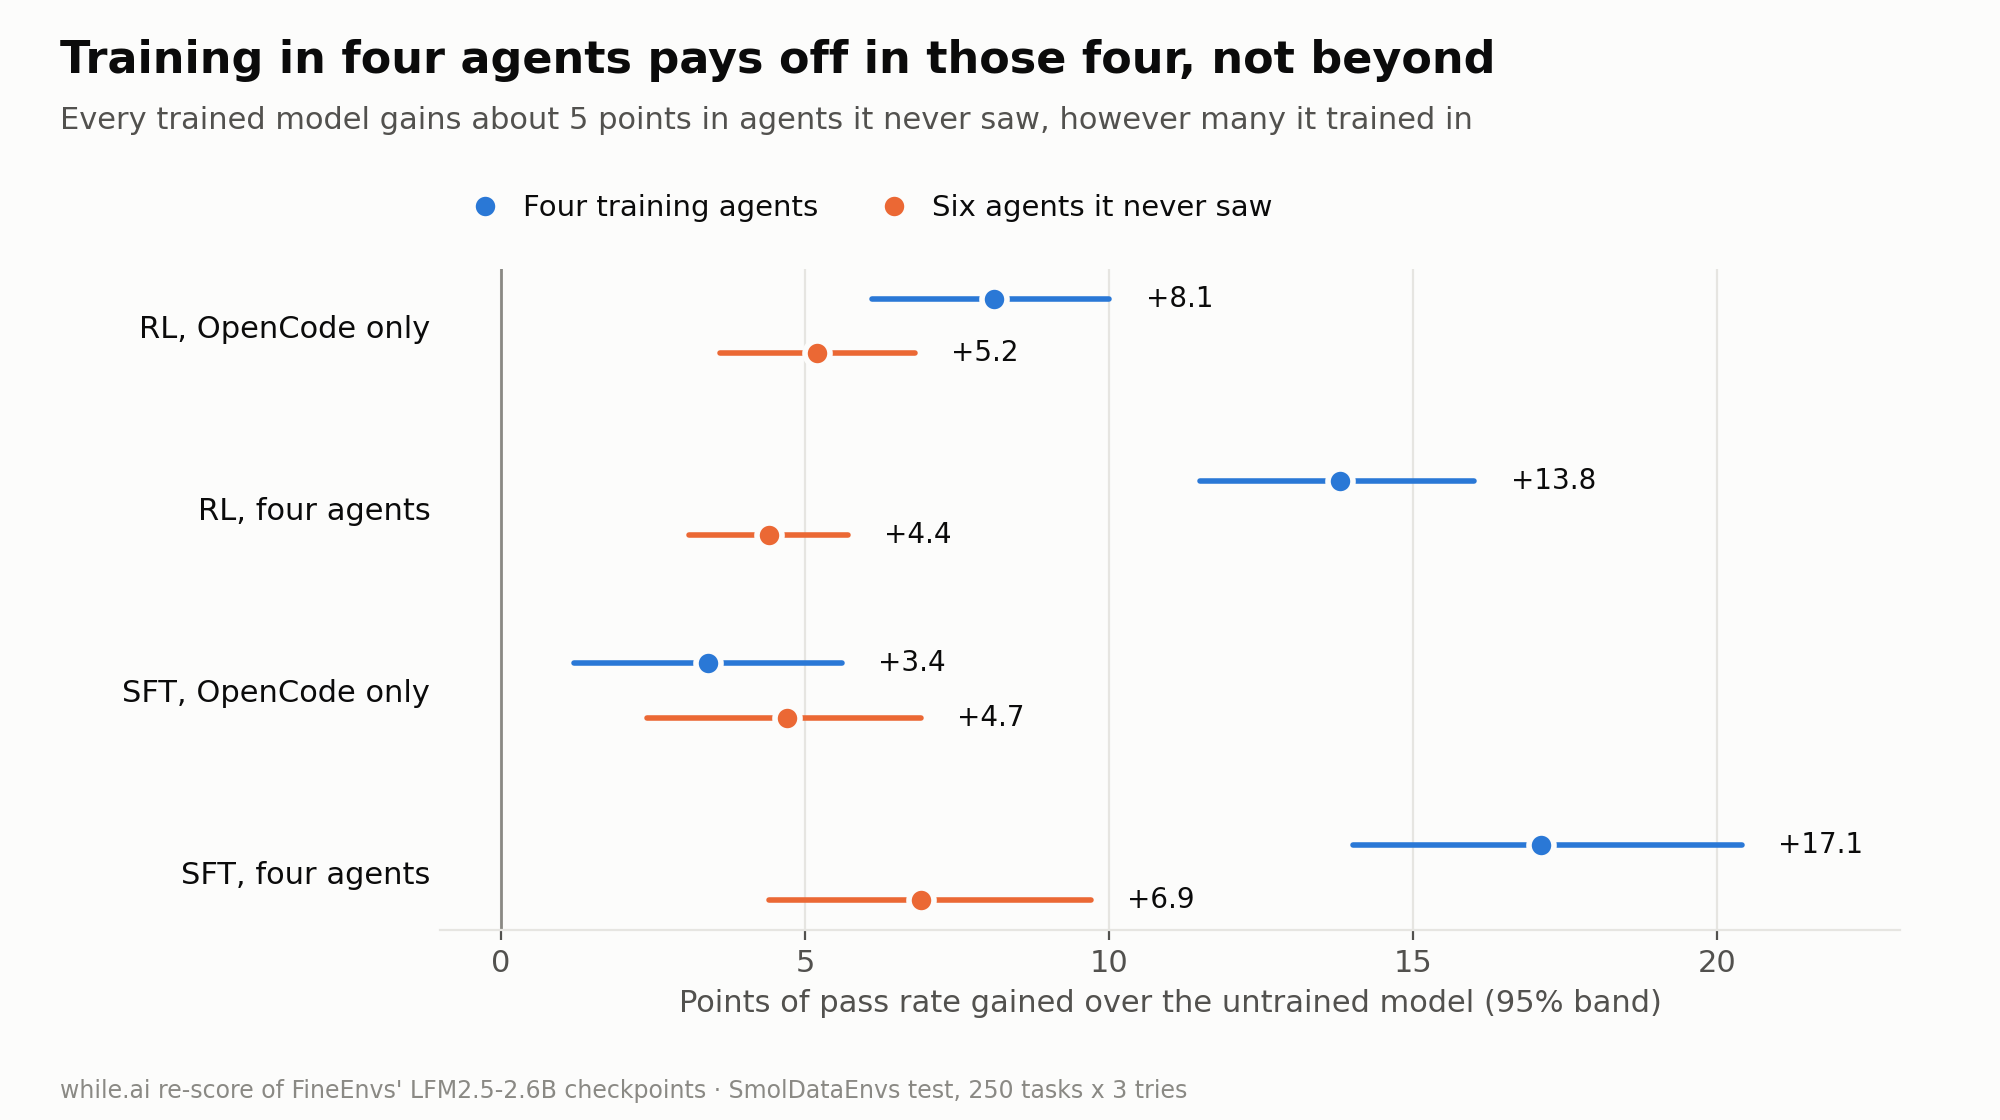
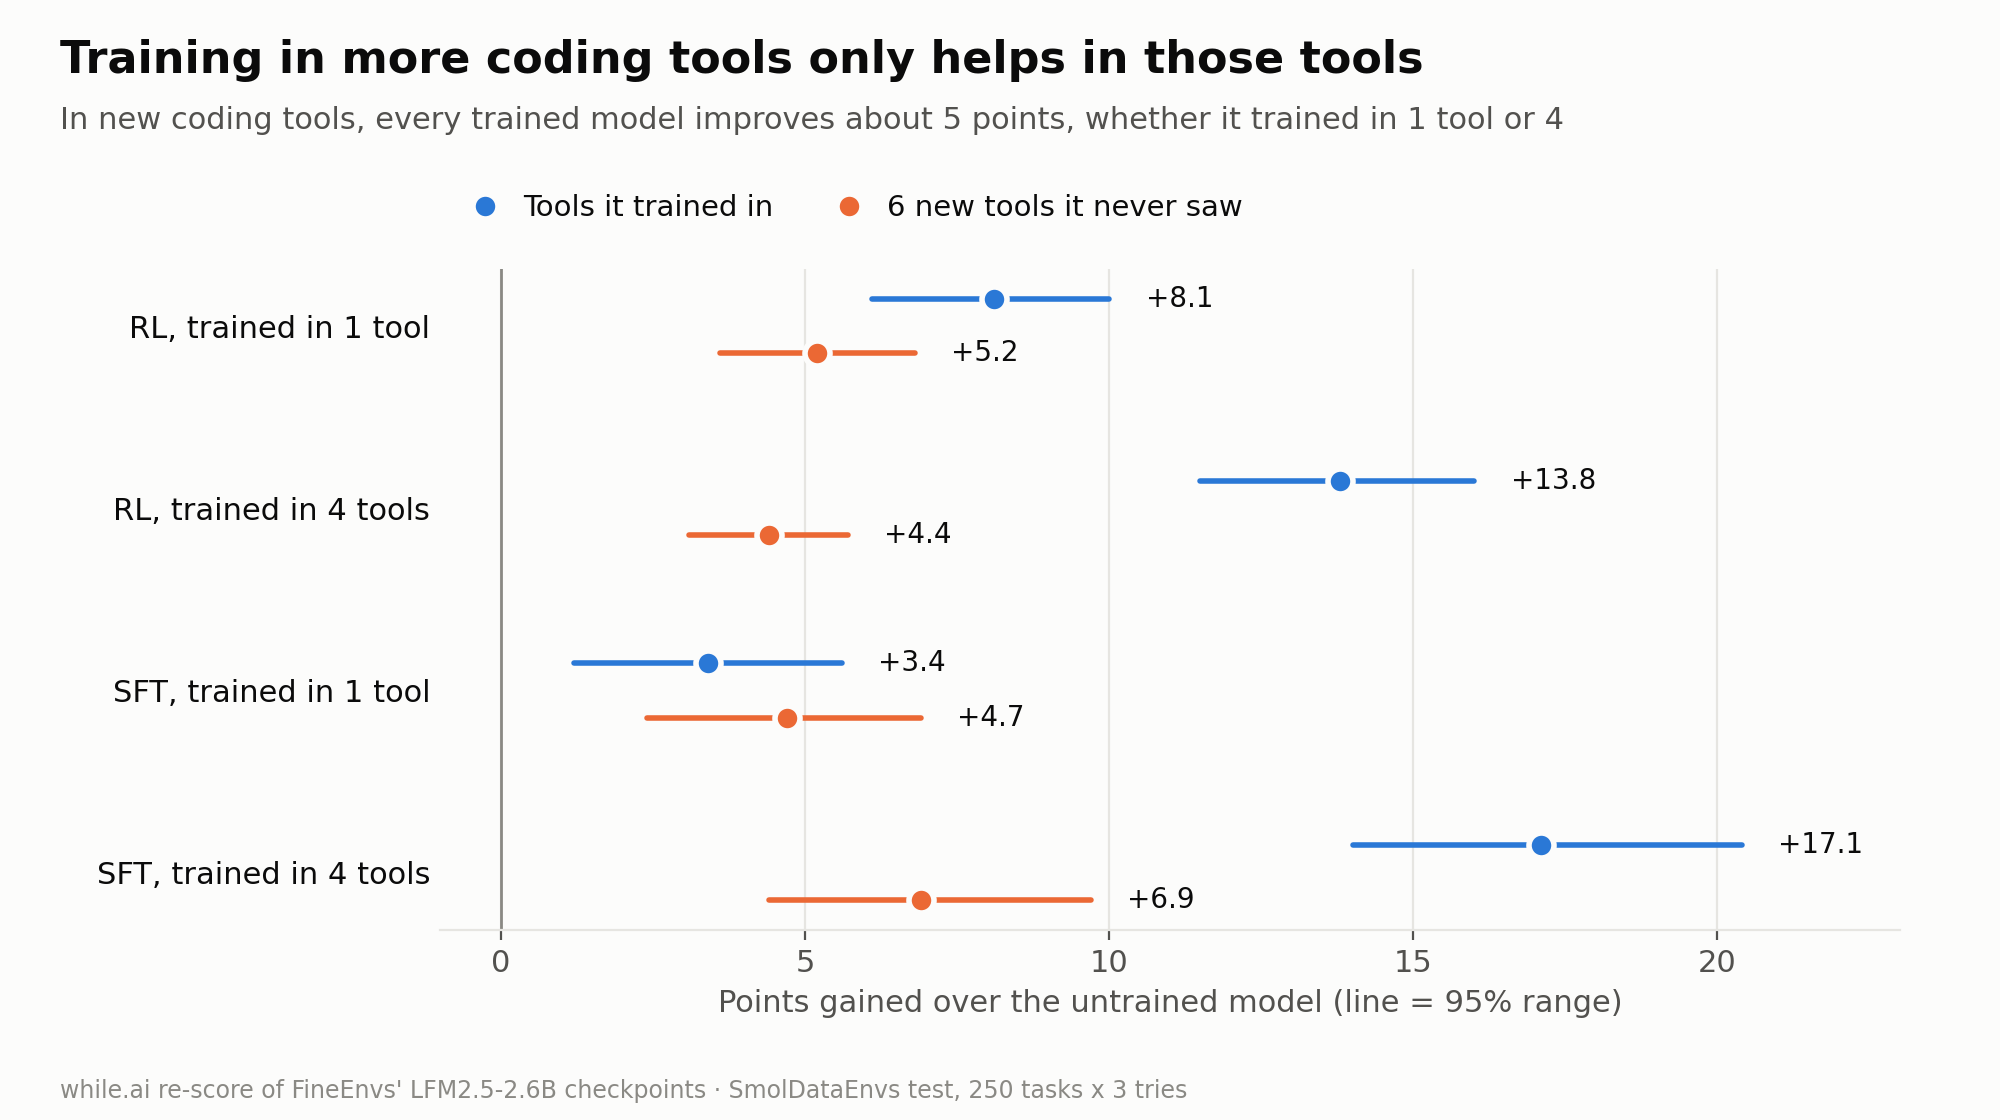
recipe(multi-harness-transfer): plain-word chart titles

diff --git a/recipes/04-train/multi-harness-transfer/make_figures.py b/recipes/04-train/multi-harness-transfer/make_figures.py
@@ -42,25 +42,25 @@ def dot(ax, y, v, lo, hi, color, label=None):
 
 # 1. Gain over the untrained model, in the agents each model trained in vs agents it never saw.
 gains = [  # model, trained four (v, lo, hi), unseen six (v, lo, hi)
-    ("RL, OpenCode only", (8.1, 6.1, 10.0), (5.2, 3.6, 6.8)),
-    ("RL, four agents", (13.8, 11.5, 16.0), (4.4, 3.1, 5.7)),
-    ("SFT, OpenCode only", (3.4, 1.2, 5.6), (4.7, 2.4, 6.9)),
-    ("SFT, four agents", (17.1, 14.0, 20.4), (6.9, 4.4, 9.7)),
+    ("RL, trained in 1 tool", (8.1, 6.1, 10.0), (5.2, 3.6, 6.8)),
+    ("RL, trained in 4 tools", (13.8, 11.5, 16.0), (4.4, 3.1, 5.7)),
+    ("SFT, trained in 1 tool", (3.4, 1.2, 5.6), (4.7, 2.4, 6.9)),
+    ("SFT, trained in 4 tools", (17.1, 14.0, 20.4), (6.9, 4.4, 9.7)),
 ]
 fig, ax = plt.subplots(figsize=(10, 5.6))
 fig.subplots_adjust(left=0.22, right=0.95, top=0.76, bottom=0.17)
 for i, (name, tr, un) in enumerate(gains):
     y = len(gains) - 1 - i
-    dot(ax, y + 0.15, *tr, BLUE, "Four training agents" if i == 0 else None)
-    dot(ax, y - 0.15, *un, ORANGE, "Six agents it never saw" if i == 0 else None)
+    dot(ax, y + 0.15, *tr, BLUE, "Tools it trained in" if i == 0 else None)
+    dot(ax, y - 0.15, *un, ORANGE, "6 new tools it never saw" if i == 0 else None)
 ax.set_yticks(range(len(gains)), [g[0] for g in reversed(gains)], fontsize=11, color=INK)
 ax.axvline(0, color=MUTED, linewidth=1)
 ax.set_xlim(-1, 23)
-ax.set_xlabel("Points of pass rate gained over the untrained model (95% band)")
+ax.set_xlabel("Points gained over the untrained model (line = 95% range)")
 frame(ax)
 fig.legend(loc="upper left", bbox_to_anchor=(0.215, 0.85), ncol=2, frameon=False, fontsize=10.5, handletextpad=0.3, columnspacing=1.6)
-header(fig, "Training in four agents pays off in those four, not beyond",
-       "Every trained model gains about 5 points in agents it never saw, however many it trained in")
+header(fig, "Training in more coding tools only helps in those tools",
+       "In new coding tools, every trained model improves about 5 points, whether it trained in 1 tool or 4")
 fig.savefig(OUT / "1-gain-trained-vs-unseen.png", dpi=200)
 plt.close(fig)
 
@@ -71,7 +71,7 @@ rows = [  # label, v, lo, hi, group
     ("Qwen Code", 6.0, 2.8, 9.2, "u"), ("OpenHands SDK", 3.3, 0.0, 6.5, "u"),
     ("Gemini CLI", -0.1, -0.4, 0.0, "u"), ("Terminus 2", -0.9, -3.8, 2.0, "u"),
     ("Vibe", -3.7, -7.2, -0.5, "u"), ("Pi", -9.3, -12.9, -5.5, "u"),
-    ("All six never seen", -0.8, -2.0, 0.5, "p"),
+    ("All 6 new tools", -0.8, -2.0, 0.5, "p"),
 ]
 fig, ax = plt.subplots(figsize=(10, 7.2))
 fig.subplots_adjust(left=0.22, right=0.95, top=0.83, bottom=0.12)
@@ -95,19 +95,19 @@ for tick, (_, _, g) in zip(ax.get_yticklabels(), ys):
         tick.set_fontweight("bold")
 ax.axvline(0, color=MUTED, linewidth=1)
 ax.set_xlim(-16, 27)
-ax.set_xlabel("Four-agent model minus OpenCode-only model, points of pass rate (95% band)")
-ax.text(-15.5, tops["t"] + 0.75, "Agents both trained in", color=BLUE, fontsize=10.5, fontweight="bold")
-ax.text(-15.5, tops["u"] + 0.75, "Agents neither trained in", color=ORANGE, fontsize=10.5, fontweight="bold")
+ax.set_xlabel("Score difference in points (line = 95% range)")
+ax.text(-15.5, tops["t"] + 0.75, "Tools both models trained in", color=BLUE, fontsize=10.5, fontweight="bold")
+ax.text(-15.5, tops["u"] + 0.75, "New tools neither model saw", color=ORANGE, fontsize=10.5, fontweight="bold")
 ax.set_ylim(-0.7, tops["t"] + 1.3)
-ax.text(26.5, ys[0][0], "not proven:\nband crosses zero", ha="right", va="center", fontsize=9, color=INK2)
+ax.text(26.5, ys[0][0], "no real difference:\nrange crosses zero", ha="right", va="center", fontsize=9, color=INK2)
 frame(ax)
-header(fig, "In agents it never saw, the four-agent model is no better",
-       "RL checkpoints. Right of zero favors training in four agents, left favors OpenCode only")
+header(fig, "In new coding tools, training in 4 tools is no better than training in 1",
+       "Right of zero: the 4-tool model did better. Left: the 1-tool (OpenCode) model did better")
 fig.savefig(OUT / "2-four-agents-minus-opencode-per-agent.png", dpi=200)
 plt.close(fig)
 
 # 3. The agent moves the score more than the model.
-models = ["Base", "RL OpenCode", "RL four", "SFT OpenCode", "SFT four"]
+models = ["Base", "RL, 1 tool", "RL, 4 tools", "SFT, 1 tool", "SFT, 4 tools"]
 grid = {  # base, oc-rl, mh-rl, oc-sft, mh-sft (211 tasks shared by every cell)
     "Terminus 2": (60.3, 63.7, 62.8, 66.0, 60.7), "Mini-SWE-Agent": (52.9, 54.0, 58.9, 46.6, 41.5),
     "Pi": (42.4, 56.3, 46.1, 55.6, 51.2), "OpenHands SDK": (44.5, 50.6, 53.9, 45.5, 45.0),
@@ -133,8 +133,8 @@ ax.tick_params(length=0)
 ax.set_xticks([x - 0.5 for x in range(1, len(models))], minor=True)
 ax.set_yticks([y - 0.5 for y in range(1, len(names))], minor=True)
 ax.grid(which="minor", color=SURFACE, linewidth=2)
-header(fig, "The agent moves the score more than the model does",
-       "Pass rate (%) on the 211 tasks every cell shares. Agents explain 81% of the spread, models 5%")
+header(fig, "Which coding tool you use matters more than which model",
+       "Percent of tasks solved. The tool explains 81% of the differences, the model only 5%")
 fig.savefig(OUT / "3-agent-vs-model-heatmap.png", dpi=200)
 plt.close(fig)
 print("wrote", sorted(p.name for p in OUT.glob("*.png")))
